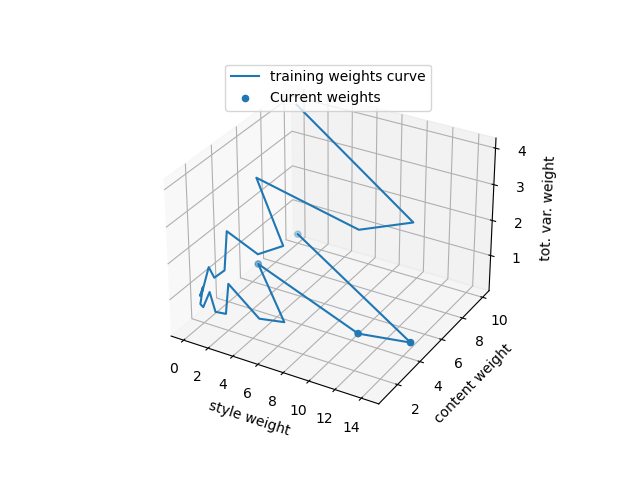
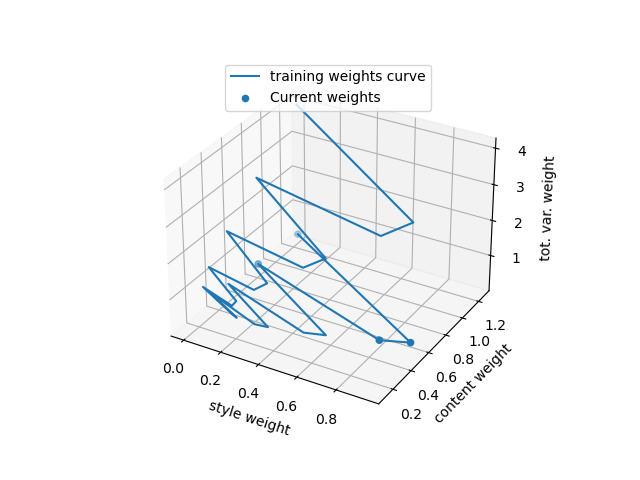
new again

diff --git a/create_gif_params_inputs.py b/create_gif_params_inputs.py
@@ -9,8 +9,8 @@ from PIL import Image
 
 
 def convert_parametric(x, y, z):
-    sw_l = [s**2 for s in x]
-    cw_l = [abs(s*2) for s in y]
+    sw_l = [abs(s/4) for s in x]
+    cw_l = [abs(s/4) for s in y]
     tvw_l = [2**s for s in z]
     return sw_l, cw_l, tvw_l
 
